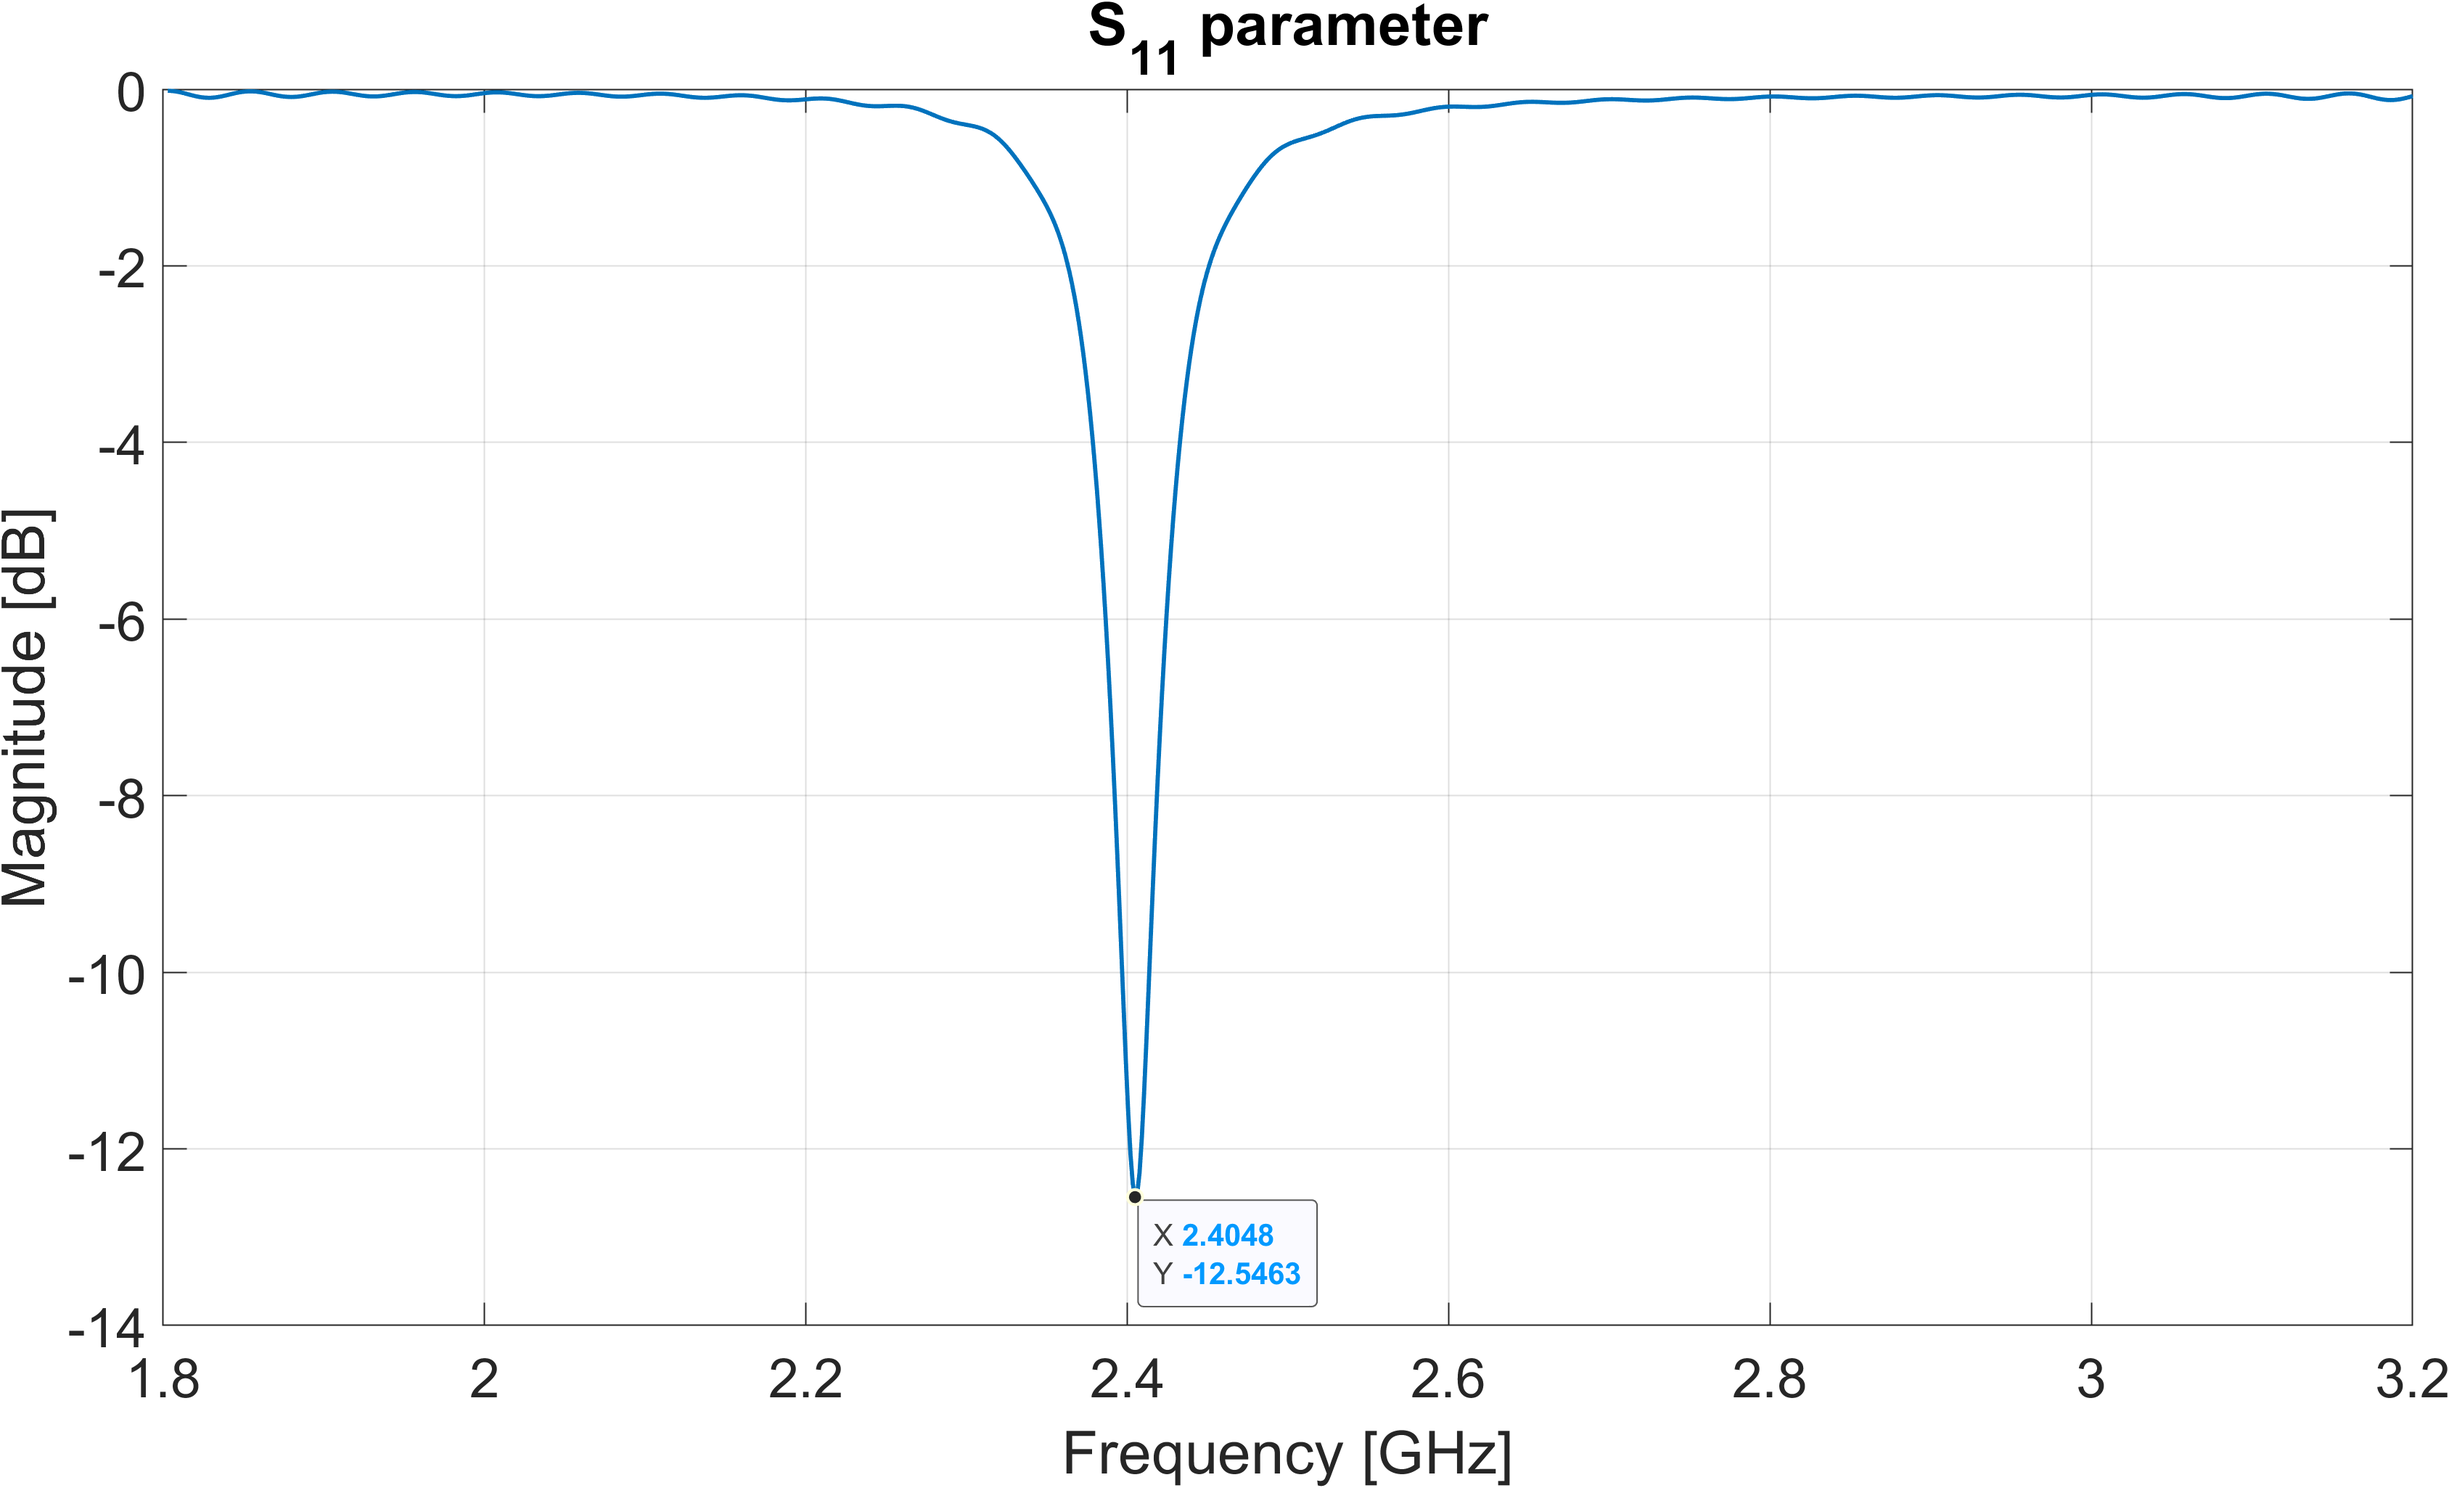
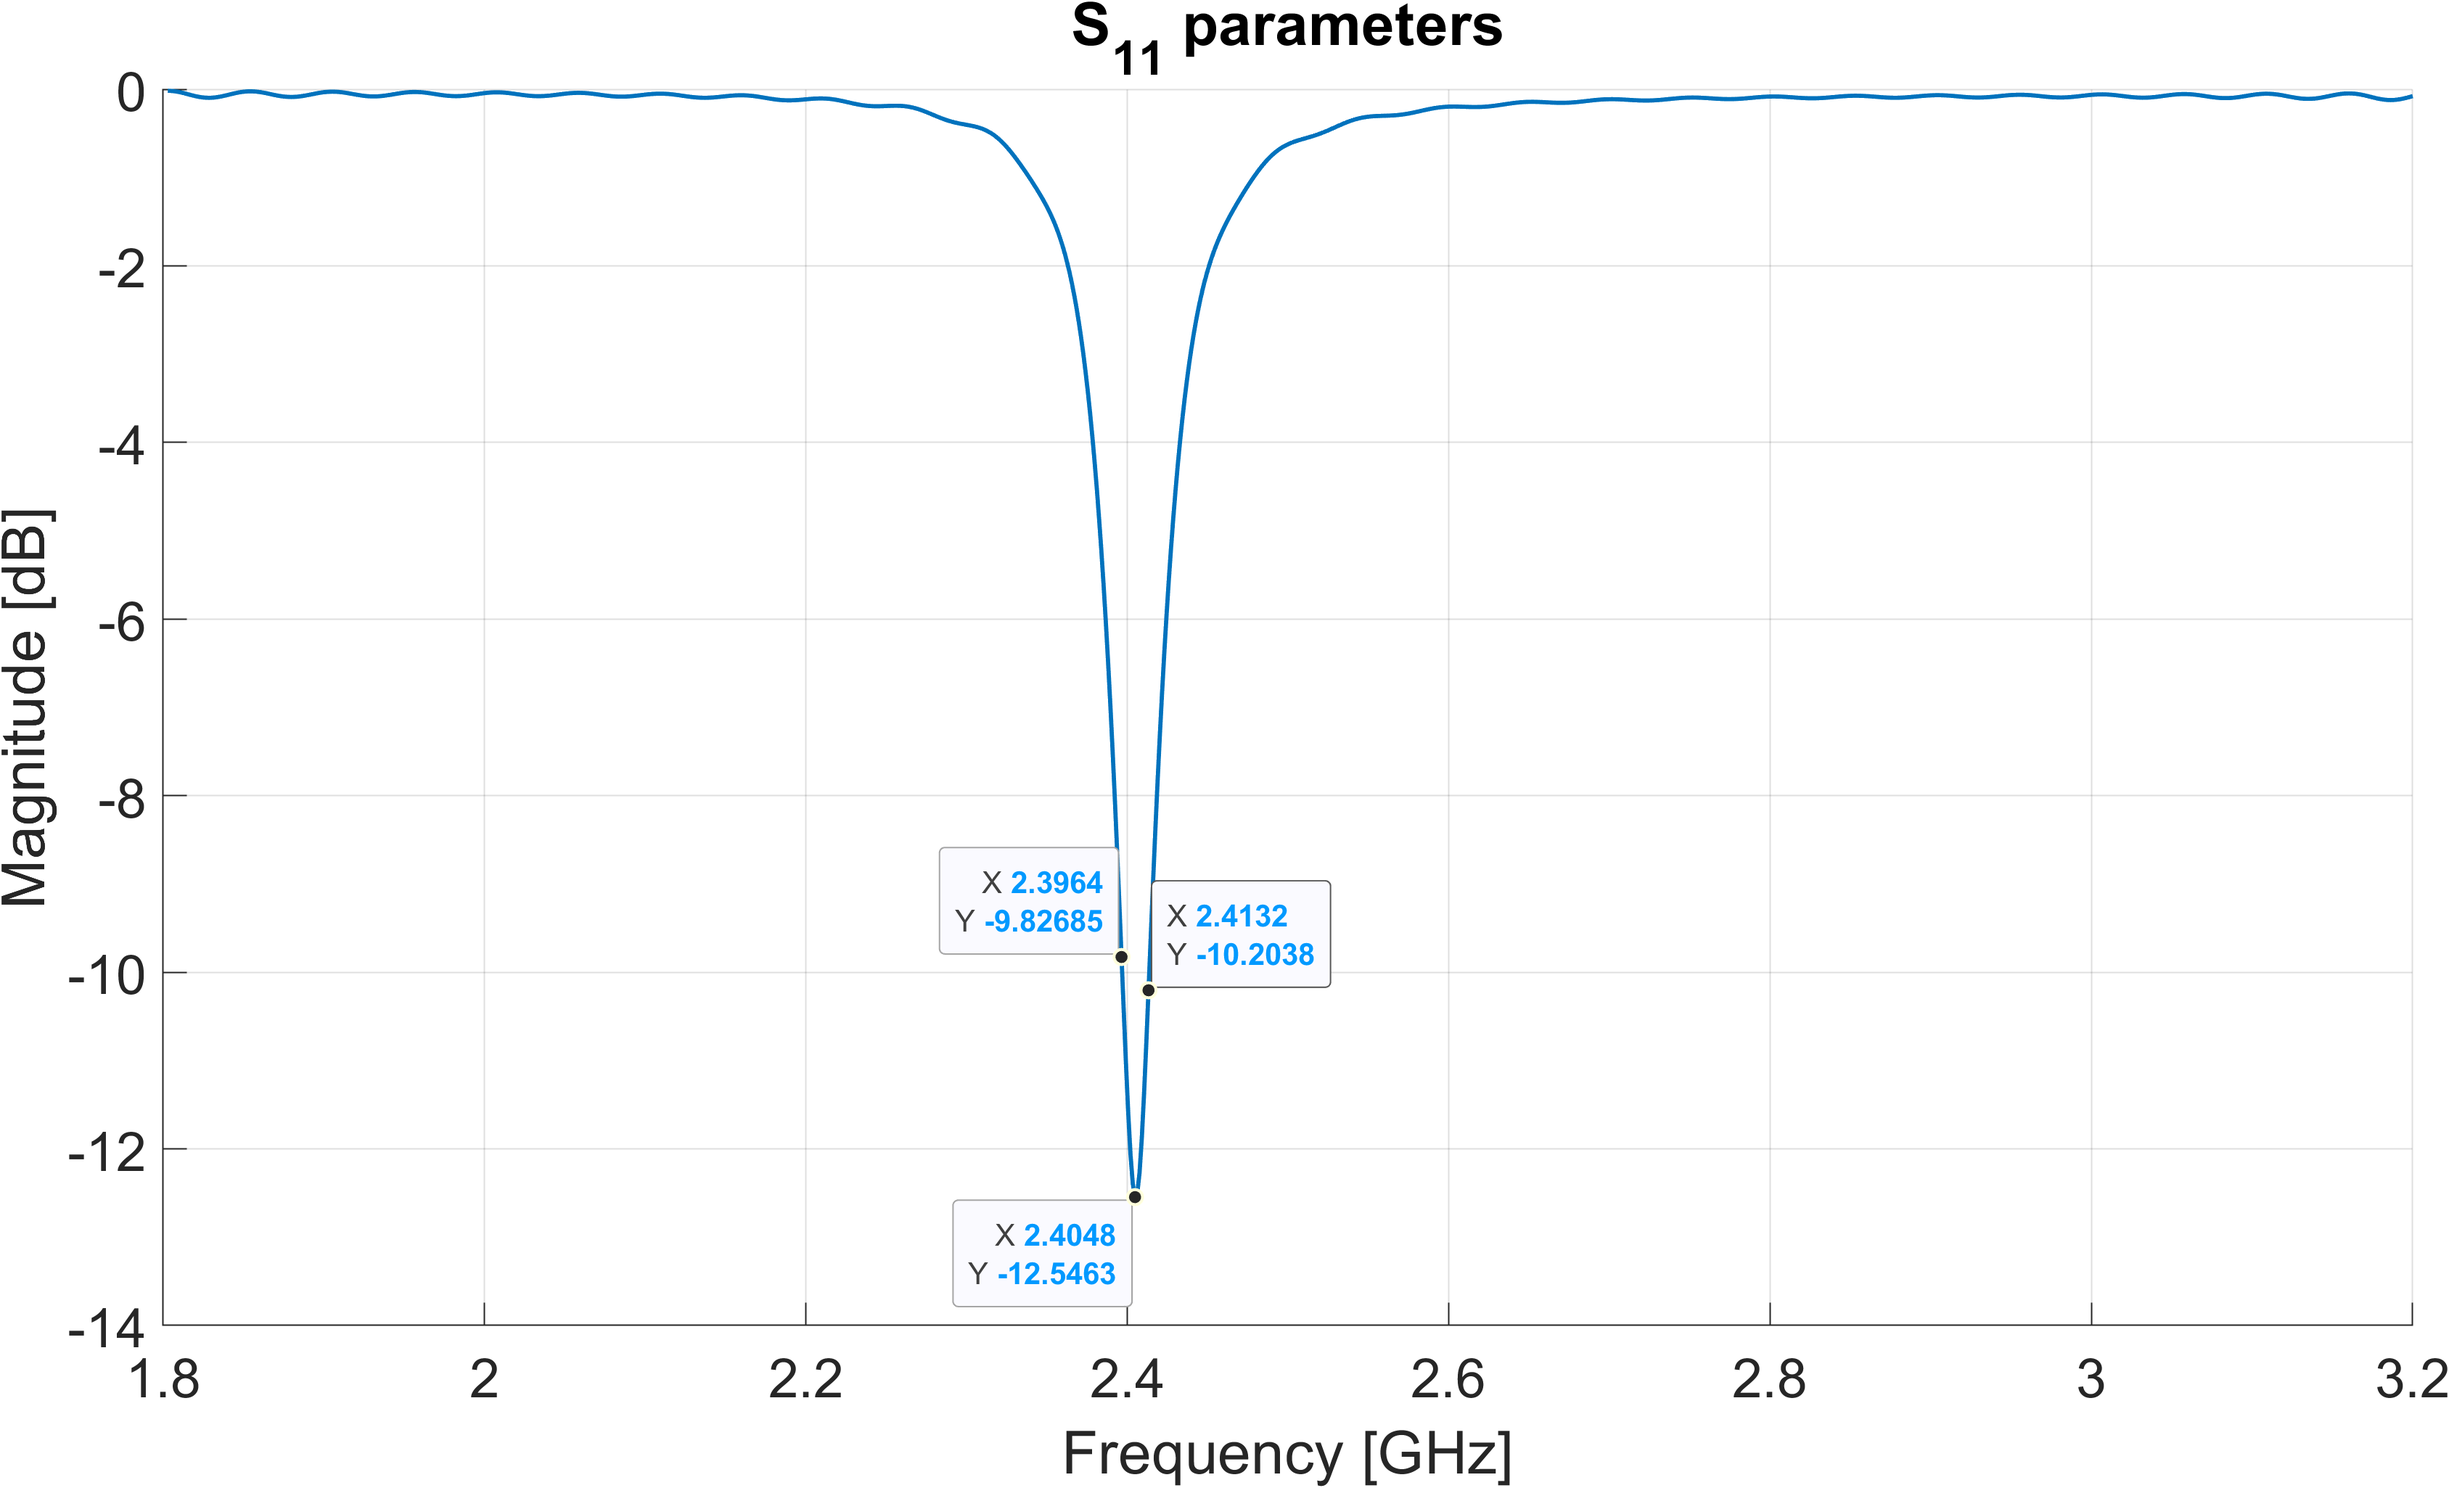
add figs brotha

Changed region(s): [[0.4044, 0.5617, 0.56, 0.6865], [0.4356, 0.0, 0.6222, 0.0624], [0.4044, 0.8113, 0.5289, 0.8737]]

diff --git a/rf_front_end/patch_antenna/s11_vswr_plot_script.m b/rf_front_end/patch_antenna/s11_vswr_plot_script.m
@@ -9,11 +9,11 @@ data4 = x.Var2(1006:2010);
 data5 = x.Var1(2011:3009);
 data6 = x.Var2(2011:3009);
 FigH = figure('WindowState','fullscreen');
-P1 = plot(data1, data2);
-P1.LineWidth = 1.4;
+% P1 = plot(data1, data2);
+% P1.LineWidth = 1.4;
 hold on
-P2 = plot(data3, data4);
-P2.LineWidth = 1.4;
+% P2 = plot(data3, data4);
+% P2.LineWidth = 1.4;
 hold on
 P3 = plot(data5, data6);
 P3.LineWidth = 1.4;
@@ -22,15 +22,16 @@ ylabel('Magnitude [dB]','FontSize',12);
 set(gca,'FontSize',18);
 grid on
 hold on
-S1 = plot(y.Var1(1:1001),y.Var2(1:1001));
-S1.LineWidth = 1.4;
+% S1 = plot(y.Var1(1:1001),y.Var2(1:1001));
+% S1.LineWidth = 1.4;
 hold on
 [~,maxidx] = max(abs(y.Var2));
 max = y(maxidx,:);
 % plot(max.Var1,max.Var2,'r.', 'LineWidth', 2, 'MarkerSize', 14);
 title('S_{11} parameters');
 % text(2.45,max.Var2,'\Leftarrow 2.44GHz and -26.21dB','FontSize',14);
-legend('IG = 1mm', 'IG = 1.5mm', 'IG = 2mm', "IG = 1mm, PW = 40.5mm, PL = 27.5mm");
+% 
+% legend('IG = 1mm', 'IG = 1.5mm', 'IG = 2mm', "IG = 1mm, PW = 40.5mm, PL = 27.5mm");
 xlim([1.8 3.2]);
 hold off
 %initial % exportgraphics(FigH,"C:\Users\johba\esd5_project\gitfigures\system_design\rf_front_end\antenna_simulation\antenna_sim_s11_initial.png", 'Resolution', 300)
